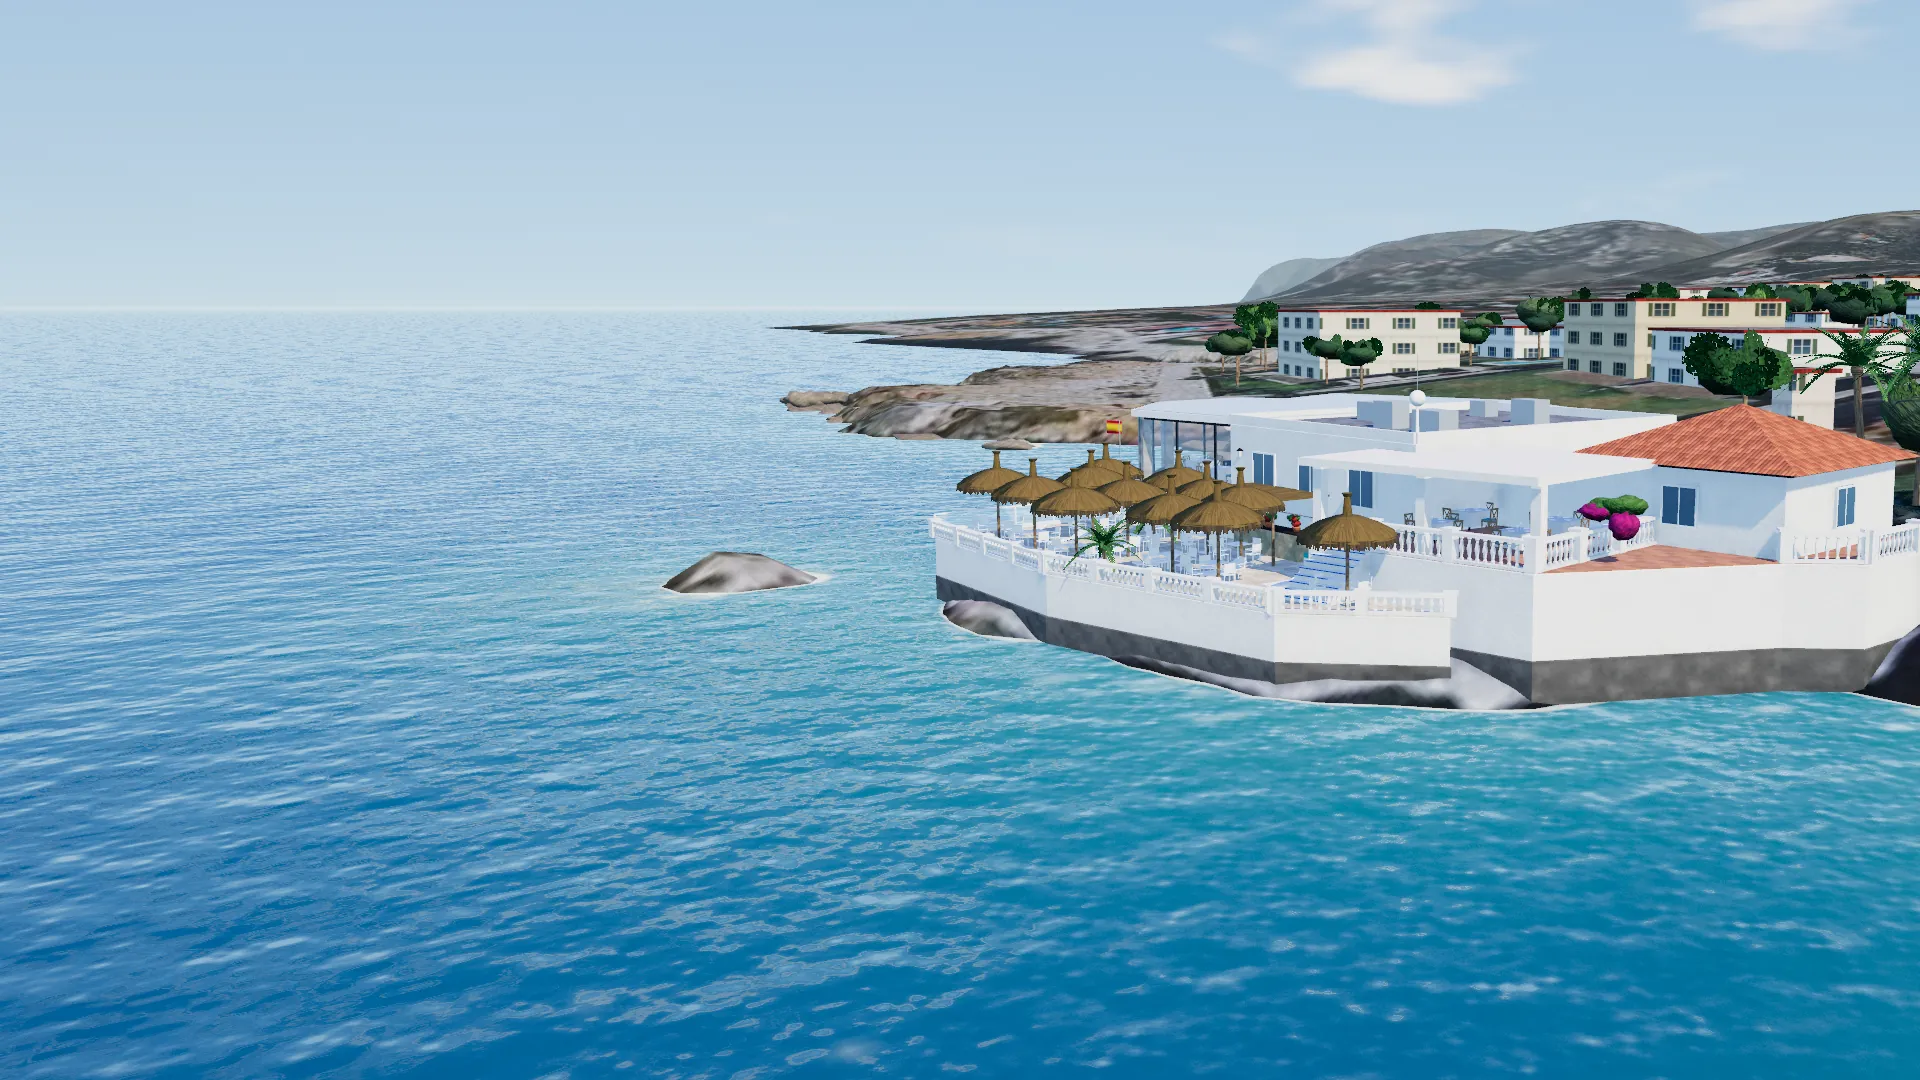
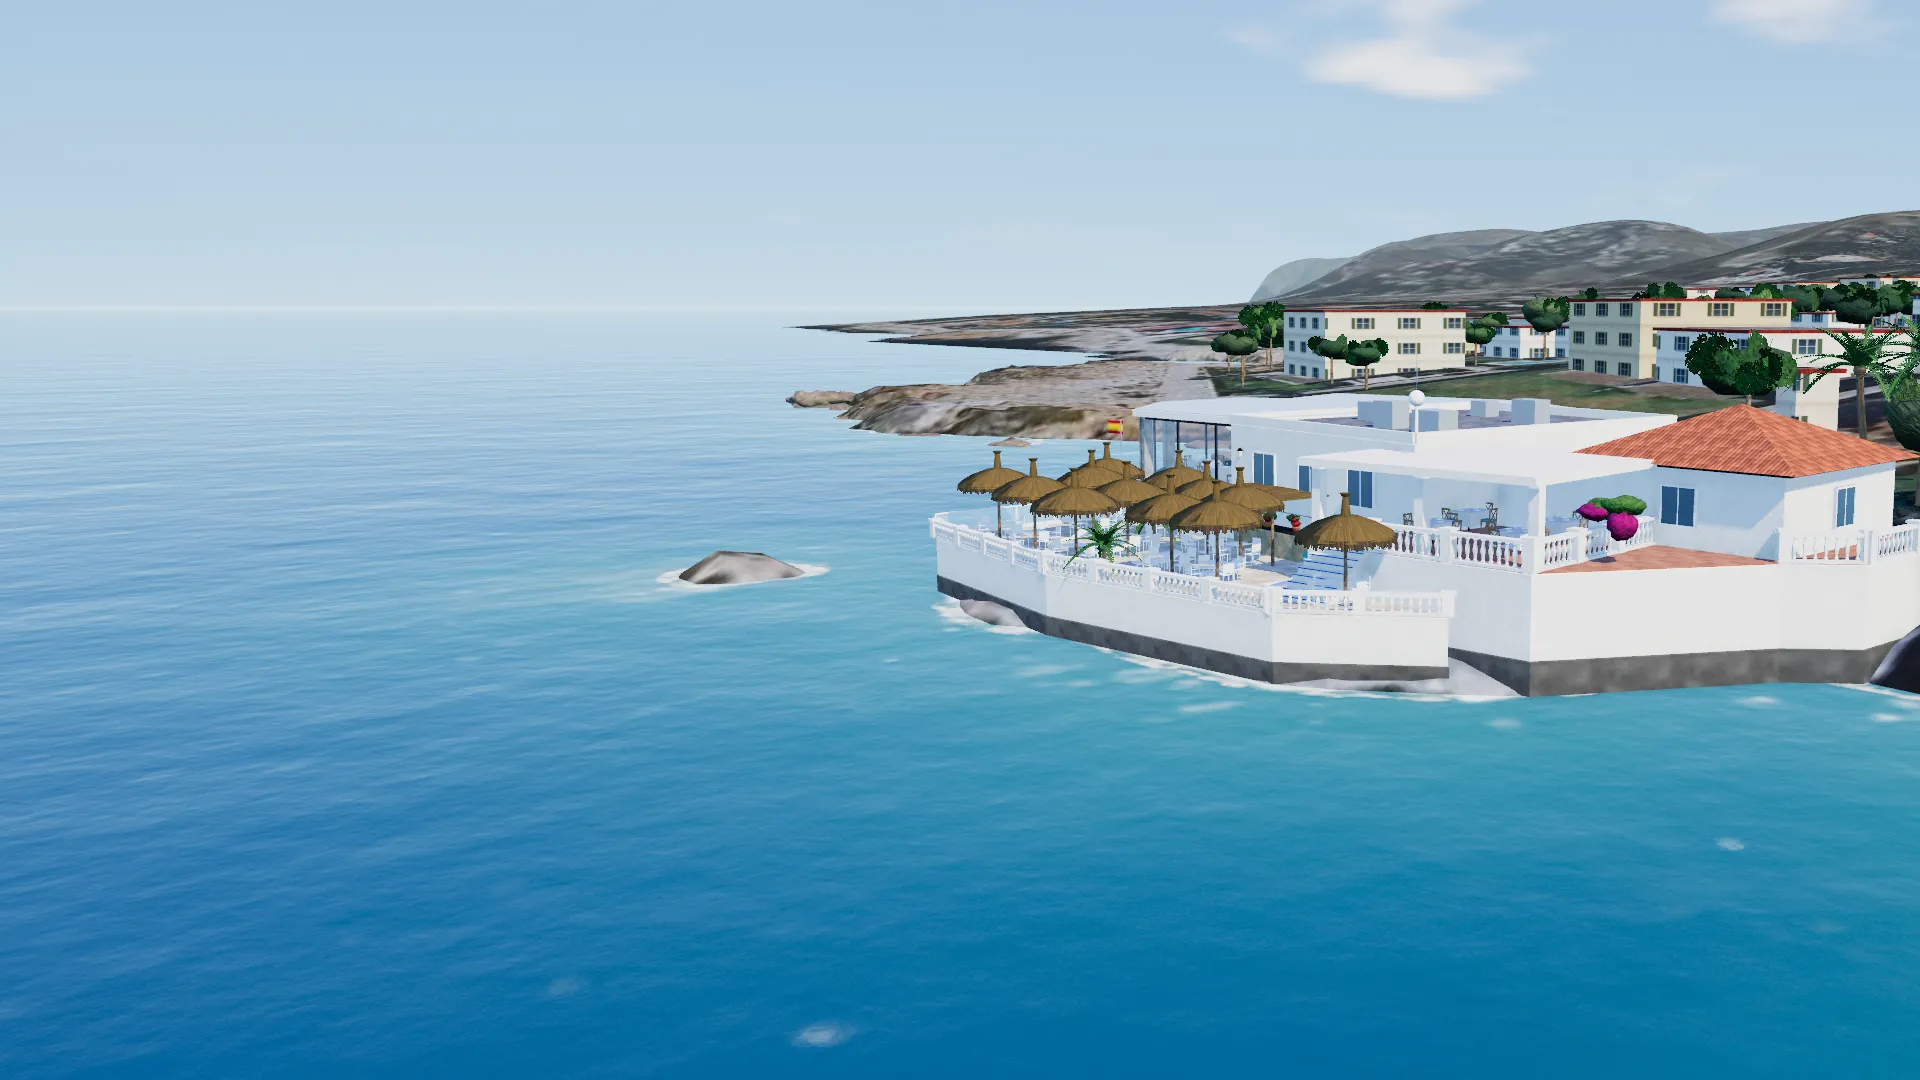
Rework the water and cut rendering cost in the El Pegolí 3D view
- Water now uses four scrolling layers of a mipmapped normal map instead of
  per-pixel procedural noise: no distant shimmer or moire, far cheaper, with
  refraction of the seabed, approximate cloud reflection and a softer sun path
- Far seabed lowered and near plane raised on aerial views so the distant
  coastline no longer z-fights with the sea surface
- Sun shadows rendered only when the light changes
- Render resolution capped at about 3 megapixels to keep it sharp but fluid
- Regenerated cover image and screenshots

Claude-Session: https://claude.ai/code/session_01E5HN136emrn6kgKPQGTpSe

diff --git a/el-pegoli/lib/scene3d.js b/el-pegoli/lib/scene3d.js
@@ -163,6 +163,8 @@
     var useShadows = true;
     renderer.shadowMap.enabled = true;
     renderer.shadowMap.type = THREE.PCFSoftShadowMap;
+    renderer.shadowMap.autoUpdate = false;
+    renderer.shadowMap.needsUpdate = true;
     renderer.domElement.setAttribute("aria-hidden", "true");
     host.appendChild(renderer.domElement);
     renderer.info.autoReset = false;
@@ -800,10 +802,11 @@
       detailMid.repeat.set(150, 150);
       detailMid.needsUpdate = true;
       terrain(MIDG, OT.medio, function (x, z, h, border) {
+        if (h < -2.5) return -24;
         if (inGrid(NEARG, x, z, 10)) return h - 5;
         return border ? Math.min(h, gridH(FARG, x, z) - 4) : h;
       }, { normalMap: detailMid, normalScale: ns(0.55) }).receiveShadow = false;
-      terrain(FARG, OT.lejos, function (x, z, h) { return inGrid(MIDG, x, z, 70) ? h - 30 : h; }).receiveShadow = false;
+      terrain(FARG, OT.lejos, function (x, z, h) { return h < -2.5 ? -45 : inGrid(MIDG, x, z, 70) ? h - 30 : h; }).receiveShadow = false;
     })();
 
     /* ================= mar ================= */
@@ -830,63 +833,67 @@
     seaU.uFogCol = { value: new THREE.Color() };
     seaU.uFogD = { value: 0.0002 };
     seaU.uBoost = { value: 1 };
+    (function () {
+      var wf = tileFbm(512, 7, 7, 5, trng);
+      T.aguaN = normalTex(wf, 512, 3.4);
+      T.ruido = colorTex(tileFbm(256, 6, 6, 4, trng), 256, function (v) { return grey(v, 0.0, 1.0); });
+    })();
+    seaU.uWaveN = { value: T.aguaN };
+    seaU.uNoise = { value: T.ruido };
     var seaMat = new THREE.ShaderMaterial({
       uniforms: seaU,
       fog: false,
       defines: isMobile ? { LOW: 1 } : {},
       vertexShader: "varying vec3 vWorld; void main(){ vec4 w = modelMatrix * vec4(position, 1.0); vWorld = w.xyz; gl_Position = projectionMatrix * viewMatrix * w; }",
       fragmentShader: [
-        "uniform sampler2D uDepth; uniform sampler2D uOrto; uniform vec4 uNearRect; uniform vec3 uDeep; uniform vec3 uShallow; uniform vec3 uWaterLight; uniform vec3 uFogCol; uniform float uFogD; uniform float uBoost;",
+        "uniform sampler2D uDepth; uniform sampler2D uOrto; uniform sampler2D uWaveN; uniform sampler2D uNoise; uniform vec4 uNearRect;",
+        "uniform vec3 uDeep; uniform vec3 uShallow; uniform vec3 uWaterLight; uniform vec3 uFogCol; uniform float uFogD; uniform float uBoost;",
         "varying vec3 vWorld;",
         SKY_GLSL,
-        "vec2 waveGrad(vec2 p, float t, float dist){",
-        "  vec2 g = vec2(0.0);",
-        "  vec2 d1 = normalize(vec2(0.25, 1.0)); g += d1 * 0.3 * 0.09 * cos(dot(p, d1) * 0.3 + t * 0.8);",
-        "  vec2 d2 = normalize(vec2(-0.6, 1.0)); g += d2 * 0.72 * 0.04 * cos(dot(p, d2) * 0.72 + t * 1.2);",
-        "  vec2 d3 = normalize(vec2(1.0, 0.35)); g += d3 * 1.6 * 0.016 * cos(dot(p, d3) * 1.6 + t * 1.7);",
-        "  float e = 0.14;",
-        "  vec2 q = p * 0.8 + vec2(t * 0.26, t * 0.16);",
-        "  float n0 = fbm3(q);",
-        "  g += vec2(fbm3(q + vec2(e, 0.0)) - n0, fbm3(q + vec2(0.0, e)) - n0) / e * 0.26 / (1.0 + dist * 0.01);",
-        "  #ifndef LOW",
-        "  vec2 q2 = p * 3.6 - vec2(t * 0.42, t * 0.34);",
-        "  float m0 = fbm3(q2);",
-        "  g += vec2(fbm3(q2 + vec2(e, 0.0)) - m0, fbm3(q2 + vec2(0.0, e)) - m0) / e * 0.08 / (1.0 + dist * 0.04);",
-        "  #endif",
-        "  return g;",
-        "}",
         "void main(){",
         "  vec3 toCam = cameraPosition - vWorld;",
         "  float dist = length(toCam);",
         "  vec3 V = toCam / dist;",
-        "  vec2 g = waveGrad(vWorld.xz, uTime, dist);",
-        "  vec3 N = normalize(vec3(-g.x, 1.0, -g.y));",
-        "  vec2 uvn = (vWorld.xz - uNearRect.xy) * uNearRect.zw;",
+        "  vec2 p = vWorld.xz;",
+        // cuatro escalas de oleaje: mar de fondo, ola corta y dos rizados
+        "  float fade = 1.0 / (1.0 + dist * 0.004);",
+        "  vec2 g = (texture2D(uWaveN, p * 0.019 + uTime * vec2(0.0045, 0.003)).xy * 2.0 - 1.0) * 0.5;",
+        "  g += (texture2D(uWaveN, p * 0.071 - uTime * vec2(0.009, 0.013)).xy * 2.0 - 1.0) * 0.55;",
+        "  g += (texture2D(uWaveN, p * 0.27 + uTime * vec2(0.03, -0.017)).xy * 2.0 - 1.0) * 0.5 * fade;",
+        "  #ifndef LOW",
+        "  g += (texture2D(uWaveN, p * 0.93 - uTime * vec2(0.05, 0.043)).xy * 2.0 - 1.0) * 0.32 * fade * fade;",
+        "  #endif",
+        "  vec3 N = normalize(vec3(g.x * 0.56, 1.0, g.y * 0.56));",
+        "  vec2 uvn = (p - uNearRect.xy) * uNearRect.zw;",
         "  float wN = smoothstep(0.0, 0.05, uvn.x) * smoothstep(1.0, 0.95, uvn.x) * smoothstep(0.0, 0.05, uvn.y) * smoothstep(1.0, 0.95, uvn.y);",
         "  vec2 uvc = clamp(uvn, 0.0, 1.0);",
         "  float hgt = mix(-7.0, -8.0 + texture2D(uDepth, uvc).r * 16.0, wN);",
         "  float depth = max(-hgt, 0.0);",
-        // color del agua: profundidad + lo que se ve del fondo en la ortofoto
+        // color: profundidad + lo que deja ver la ortofoto del fondo, algo desplazado por la ola (refracción)
         "  vec3 body = mix(uShallow, uDeep, 1.0 - exp(-depth * 0.42));",
-        "  vec3 bed = texture2D(uOrto, vec2(uvc.x, 1.0 - uvc.y)).rgb;",
+        "  vec2 uvr = clamp(uvc + g * 0.0016 * min(depth, 3.0), 0.0, 1.0);",
+        "  vec3 bed = texture2D(uOrto, vec2(uvr.x, 1.0 - uvr.y)).rgb;",
         "  body = mix(body, bed * 1.7 + uShallow * 0.22, wN * (0.15 + 0.6 * exp(-depth * 0.5)));",
-        "  body *= uWaterLight * (0.72 + 0.28 * max(dot(N, uSunDir), 0.0));",
+        "  body *= uWaterLight * (0.74 + 0.26 * max(dot(N, uSunDir), 0.0));",
+        // reflejo del cielo (con nubes aproximadas) según el ángulo de visión
         "  vec3 R = reflect(-V, N); R.y = abs(R.y);",
-        "  #ifdef LOW",
         "  vec3 refl = skyBase(R);",
-        "  #else",
-        "  vec3 refl = skyClouds(skyBase(R), R);",
+        "  #ifndef LOW",
+        "  float cn = texture2D(uNoise, R.xz / (R.y + 0.2) * 0.07 + uTime * 0.0007).r;",
+        "  refl = mix(refl, uCloudLit, smoothstep(0.86 - uCloud * 0.5, 1.05 - uCloud * 0.5, cn) * 0.6 * smoothstep(0.02, 0.25, R.y));",
         "  #endif",
         "  float F = 0.02 + 0.98 * pow(1.0 - max(dot(N, V), 0.0), 5.0);",
-        "  vec3 col = mix(body, refl, clamp(F, 0.0, 0.9));",
-        "  float s = max(dot(R, uSunDir), 0.0);",
-        "  col += uSunCol * (pow(s, 380.0) * 5.0 + pow(s, 36.0) * 0.14);",
+        "  vec3 col = mix(body, refl, clamp(F, 0.0, 0.88));",
+        // camino de sol: brillo fino cerca, más ancho y suave a lo lejos
+        "  float sp = max(dot(R, uSunDir), 0.0);",
+        "  col += uSunCol * (pow(sp, 420.0) * 4.5 * fade + pow(sp, 48.0) * 0.2);",
         // espuma en la orilla y contra las rocas
-        "  float fn = fbm3(vWorld.xz * 1.1 + vec2(uTime * 0.2, -uTime * 0.11));",
-        "  float shore = (1.0 - smoothstep(0.0, 0.6, depth)) * wN;",
-        "  float lap = 0.5 + 0.5 * sin(uTime * 0.85 - depth * 5.0 + fn * 4.0);",
-        "  float foam = smoothstep(0.62, 0.96, shore * (0.5 + 0.5 * lap) + fn * 0.4 - 0.06);",
-        "  col = mix(col, vec3(0.95) * (uWaterLight * 0.75 + uSunCol * 0.25), clamp(foam, 0.0, 1.0) * 0.6);",
+        "  float fn = texture2D(uNoise, p * 0.085 + uTime * vec2(0.018, -0.011)).r;",
+        "  float fn2 = texture2D(uNoise, p * 0.33 - uTime * vec2(0.03, 0.02)).r;",
+        "  float shore = (1.0 - smoothstep(0.0, 0.7, depth)) * wN;",
+        "  float lap = 0.5 + 0.5 * sin(uTime * 0.85 - depth * 5.0 + fn * 5.0);",
+        "  float foam = smoothstep(0.6, 0.95, shore * (0.5 + 0.5 * lap) + fn2 * 0.45 - 0.1);",
+        "  col = mix(col, vec3(0.94) * (uWaterLight * 0.75 + uSunCol * 0.25), clamp(foam, 0.0, 1.0) * 0.65);",
         "  float fogF = 1.0 - exp(-uFogD * uFogD * dist * dist);",
         "  col = mix(col, uFogCol, fogF);",
         "  gl_FragColor = vec4(col * uBoost, 1.0);",
@@ -1583,6 +1590,7 @@
       M.lampara.emissiveIntensity = 0.35 + cur.lamps * 2.4;
       candles.material.opacity = cur.lamps;
       lampLights.forEach(function (l) { l.intensity = l.userData.max * cur.lamps; });
+      renderer.shadowMap.needsUpdate = true;
       if (refreshEnv) updateEnv();
     }
     applyTime(true);
@@ -1669,6 +1677,7 @@
       var w = host.clientWidth || window.innerWidth, h = host.clientHeight || window.innerHeight;
       if (w === size.w && h === size.h) return;
       size.w = w; size.h = h;
+      renderer.setPixelRatio(Math.max(0.7, Math.min(quality.dpr, Math.sqrt(3.0e6 / (w * h)))));
       renderer.setSize(w, h);
       camera.aspect = w / h;
       setOffsetGoal();
@@ -1752,6 +1761,9 @@
       camera.fov = fov;
       if (Math.abs(offset.x) > 0.001 || Math.abs(offset.y) > 0.001) camera.setViewOffset(size.w, size.h, -offset.x * size.w, offset.y * size.h, size.w, size.h);
       else camera.clearViewOffset();
+      camera.updateProjectionMatrix();
+      // en vistas aéreas el plano cercano se aleja: da mucha más precisión a la costa lejana
+      camera.near = camera.position.y > 9 ? 1.6 : 0.35;
       camera.updateProjectionMatrix();
       sky.position.copy(camera.position);
     }
@@ -1957,13 +1969,13 @@
     // Niveles: 0 todo · 1 sin posprocesado · 2 algo menos de resolución · 3 resolución base y sin sombras
     //          4 (ECO) solo se dibuja cuando algo cambia
     var ECO = 4, DPR = Math.min(window.devicePixelRatio || 1, isMobile ? 1.5 : 2);
-    var quality = { level: 0, sum: 0, n: 0, warm: 0, lastRender: 0 };
+    var quality = { level: 0, sum: 0, n: 0, warm: 0, lastRender: 0, dpr: DPR };
     function setLevel(l) {
       if (l <= quality.level) return;
       quality.level = l;
       quality.warm = 0; quality.sum = 0; quality.n = 0;
       if (l >= 3) sun.castShadow = false;
-      renderer.setPixelRatio(l >= ECO ? 0.7 : l === 3 ? Math.min(DPR, 1) : l === 2 ? Math.min(DPR, 1.35) : DPR);
+      quality.dpr = l >= ECO ? 0.7 : l === 3 ? Math.min(DPR, 1) : l === 2 ? Math.min(DPR, 1.35) : DPR;
       size.w = 0;
       resize();
       host.setAttribute("data-quality", String(l));
@@ -2025,6 +2037,7 @@
       renderer.info.reset();
       renderScene();
       frames++;
+      if (frames < 4) renderer.shadowMap.needsUpdate = true; // las primeras pasadas, hasta que todo está cargado
       if (!firstFrame) {
         firstFrame = true;
         host.classList.add("is-live");
